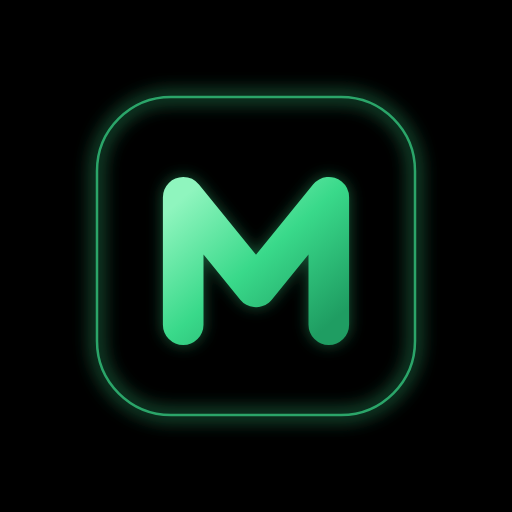
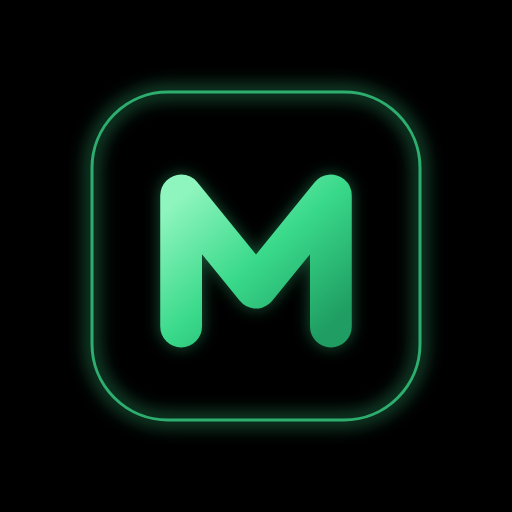
v2.9: ไอคอนแอพ: ขยับกรอบแสงให้ชิดขอบจริง ไม่เหลือแถบดำนอกกรอบ
- เดิมกรอบห่างขอบที่มือถือแสดงประมาณ 3 พิกเซล เห็นเป็นแถบดำบางๆ ทำให้ดูเล็กกว่าแอพอื่น ตอนนี้กรอบชิดขอบพอดี
- สัดส่วนตัว M กับกรอบเทียบกับโลโก้ในแอพคงเดิม (โลโก้ในแอพไม่แตะ)

Claude-Session: https://claude.ai/code/session_01C2wS7NNPrkVhQf5fYeCgCQ

diff --git a/sub/app.js b/sub/app.js
@@ -1,17 +1,17 @@
-import { alignLinesToWords, refineSegmentBoundariesWithEnergy } from './aligner.js?v=2.8';
-import { buildSrt } from './srt.js?v=2.8';
-import { callGroqWhisper, buildTranscriptForGemini, callGeminiSplit, removeThaiSpaces, GEMINI_MODELS, DEFAULT_GEMINI_MODEL } from './ai.js?v=2.8';
-import { loadMediabunny, decodeAudioFile, isVideoFile, extractAudioFromVideo, audioBufferToWavBlob } from './media.js?v=2.8';
-import { CANVAS_W, FONT_FAMILY, BOTTOM_MARGIN_RATIO, renderVideo } from './render.js?v=2.8';
-import { createTrimEditor } from './waveform.js?v=2.8';
-import { setupFineSlider, createStagedProgress, escapeHtml, getReliableDuration } from './ui.js?v=2.8';
-import { setupVoicePicker } from './voicepick.js?v=2.8';
+import { alignLinesToWords, refineSegmentBoundariesWithEnergy } from './aligner.js?v=2.9';
+import { buildSrt } from './srt.js?v=2.9';
+import { callGroqWhisper, buildTranscriptForGemini, callGeminiSplit, removeThaiSpaces, GEMINI_MODELS, DEFAULT_GEMINI_MODEL } from './ai.js?v=2.9';
+import { loadMediabunny, decodeAudioFile, isVideoFile, extractAudioFromVideo, audioBufferToWavBlob } from './media.js?v=2.9';
+import { CANVAS_W, FONT_FAMILY, BOTTOM_MARGIN_RATIO, renderVideo } from './render.js?v=2.9';
+import { createTrimEditor } from './waveform.js?v=2.9';
+import { setupFineSlider, createStagedProgress, escapeHtml, getReliableDuration } from './ui.js?v=2.9';
+import { setupVoicePicker } from './voicepick.js?v=2.9';
 
 // ===== ที่เก็บข้อมูลร่วมกับแอพหลัก (MWStore จาก ../store.js) — service worker ของแอพหลักคุมหน้านี้อยู่แล้ว =====
   const S = window.MWStore;
   await S.ready;
   // สคริปต์ของแอพหลักที่หน้านี้ยืมใช้ — โหลดหลังข้อมูลพร้อม ถ้าโหลดไม่ได้ก็ใช้ต่อได้ (budget = เพดานค่า AI ตอนถอยไป OpenRouter · r2 + voicestore = เสียงที่เจนไว้)
-  for (const src of ['../budget.js?v=2.8', '../r2.js?v=2.8', '../voicestore.js?v=2.8']) {
+  for (const src of ['../budget.js?v=2.9', '../r2.js?v=2.9', '../voicestore.js?v=2.9']) {
     await new Promise((ok) => { const el = document.createElement('script'); el.src = src; el.onload = el.onerror = ok; document.body.appendChild(el); });
   }
   const GROQ_KEY = 'mw_groq_key_v1', GEMINI_KEY = 'mw_gemini_key_v1', OR_KEY = 'mw_openrouter_key_v1', SUB_CFG = 'mw_sub_cfg_v1'; // key ตั้งที่แอพหลัก > ตั้งค่า

diff --git a/footage.html b/footage.html
@@ -5,12 +5,12 @@
 <meta name="viewport" content="width=device-width, initial-scale=1, viewport-fit=cover" />
 <meta name="theme-color" content="#0b0e0d" />
 <title>ฟุตเทจ · Meowrin factory</title>
-<link rel="icon" type="image/png" href="icon-192.png?v=2.8">
-<link rel="apple-touch-icon" href="icon-192.png?v=2.8">
+<link rel="icon" type="image/png" href="icon-192.png?v=2.9">
+<link rel="apple-touch-icon" href="icon-192.png?v=2.9">
 <link rel="preconnect" href="https://fonts.googleapis.com">
 <link rel="preconnect" href="https://fonts.gstatic.com" crossorigin>
 <link href="https://fonts.googleapis.com/css2?family=IBM+Plex+Sans+Thai:wght@400;500;600&family=Mitr:wght@500&display=swap" rel="stylesheet">
-<link rel="stylesheet" href="footage.css?v=2.8">
+<link rel="stylesheet" href="footage.css?v=2.9">
 </head>
 <body>
 <header>
@@ -232,6 +232,6 @@
 <input id="pickDocs" type="file" multiple hidden><!-- ไม่ใส่ accept → Android เปิดแอพไฟล์ (เข้าโฟลเดอร์ + เลือกทั้งหมดได้) แทนตัวเลือกรูป -->
 <video id="vid" muted playsinline preload="auto" style="position:fixed;left:-9999px;width:2px;height:2px"></video>
 
-<script src="store.js?v=2.8" data-boot="icons.js?v=2.8 dialog.js?v=2.8 budget.js?v=2.8 footage-core.js?v=2.8 r2.js?v=2.8 footage.js?v=2.8 footage-find.js?v=2.8 footage-dup.js?v=2.8 footage-audit.js?v=2.8 footage-cloud.js?v=2.8 mp4fix.js?v=2.8 footage-stitch.js?v=2.8 voicestore.js?v=2.8 footage-plan.js?v=2.8 gdrive.js?v=2.8"></script>
+<script src="store.js?v=2.9" data-boot="icons.js?v=2.9 dialog.js?v=2.9 budget.js?v=2.9 footage-core.js?v=2.9 r2.js?v=2.9 footage.js?v=2.9 footage-find.js?v=2.9 footage-dup.js?v=2.9 footage-audit.js?v=2.9 footage-cloud.js?v=2.9 mp4fix.js?v=2.9 footage-stitch.js?v=2.9 voicestore.js?v=2.9 footage-plan.js?v=2.9 gdrive.js?v=2.9"></script>
 </body>
 </html>

diff --git a/index.html b/index.html
@@ -4,19 +4,19 @@
 <meta charset="UTF-8" />
 <meta name="viewport" content="width=device-width, initial-scale=1, viewport-fit=cover" />
 <meta name="theme-color" content="#0b0e0d" />
-<link rel="manifest" href="manifest.json?v=2.8">
+<link rel="manifest" href="manifest.json?v=2.9">
 <meta name="mobile-web-app-capable" content="yes">
 <meta name="apple-mobile-web-app-capable" content="yes">
 <meta name="apple-mobile-web-app-status-bar-style" content="black-translucent">
 <meta name="apple-mobile-web-app-title" content="Meowrin">
-<link rel="icon" type="image/png" href="icon-192.png?v=2.8">
-<link rel="apple-touch-icon" href="icon-192.png?v=2.8">
+<link rel="icon" type="image/png" href="icon-192.png?v=2.9">
+<link rel="apple-touch-icon" href="icon-192.png?v=2.9">
 <title>Meowrin factory</title>
 <link rel="preconnect" href="https://fonts.googleapis.com">
 <link rel="preconnect" href="https://fonts.gstatic.com" crossorigin>
 <link href="https://fonts.googleapis.com/css2?family=IBM+Plex+Sans+Thai:wght@400;500;600&family=Mitr:wght@500&display=swap" rel="stylesheet">
-<link rel="stylesheet" href="style.css?v=2.8">
-<link rel="stylesheet" href="sheet.css?v=2.8">
+<link rel="stylesheet" href="style.css?v=2.9">
+<link rel="stylesheet" href="sheet.css?v=2.9">
 </head>
 <body>
 <div class="wrap">
@@ -400,6 +400,6 @@
   </div>
 </div>
 
-<script src="store.js?v=2.8" data-boot="version.js?v=2.8 icons.js?v=2.8 dialog.js?v=2.8 budget.js?v=2.8 sync.js?v=2.8 app.js?v=2.8 llm.js?v=2.8 ai.js?v=2.8 r2.js?v=2.8 voicestore.js?v=2.8 tts.js?v=2.8 gdrive.js?v=2.8"></script>
+<script src="store.js?v=2.9" data-boot="version.js?v=2.9 icons.js?v=2.9 dialog.js?v=2.9 budget.js?v=2.9 sync.js?v=2.9 app.js?v=2.9 llm.js?v=2.9 ai.js?v=2.9 r2.js?v=2.9 voicestore.js?v=2.9 tts.js?v=2.9 gdrive.js?v=2.9"></script>
 </body>
 </html>

diff --git a/sub/index.html b/sub/index.html
@@ -4,22 +4,22 @@
 <meta charset="UTF-8">
 <meta name="viewport" content="width=device-width, initial-scale=1.0, maximum-scale=1.0, viewport-fit=cover">
 <title>ซับจอเขียว · Meowrin factory</title>
-<link rel="icon" type="image/png" href="../icon-192.png?v=2.8">
+<link rel="icon" type="image/png" href="../icon-192.png?v=2.9">
 
 <!-- ===== PWA: ใช้ manifest และ service worker ของแอพหลัก (หน้านี้อยู่ในขอบเขตเดียวกัน) ===== -->
-<link rel="manifest" href="../manifest.json?v=2.8">
+<link rel="manifest" href="../manifest.json?v=2.9">
 <meta name="theme-color" content="#0b0e0d">
 <meta name="mobile-web-app-capable" content="yes">
 <meta name="apple-mobile-web-app-capable" content="yes">
 <meta name="apple-mobile-web-app-status-bar-style" content="black-translucent">
 <meta name="apple-mobile-web-app-title" content="Meowrin">
-<link rel="apple-touch-icon" href="../icon-192.png?v=2.8">
+<link rel="apple-touch-icon" href="../icon-192.png?v=2.9">
 <!-- ===== จบบล็อก PWA ===== -->
 
 <link rel="preconnect" href="https://fonts.googleapis.com">
 <link rel="preconnect" href="https://fonts.gstatic.com" crossorigin>
 <link href="https://fonts.googleapis.com/css2?family=Kanit:wght@400;500;700&display=swap" rel="stylesheet">
-<link rel="stylesheet" href="style.css?v=2.8">
+<link rel="stylesheet" href="style.css?v=2.9">
 </head>
 
 <body>
@@ -284,7 +284,7 @@
   </div>
 </div>
 
-<script src="../store.js?v=2.8"></script>
-<script type="module" src="app.js?v=2.8"></script>
+<script src="../store.js?v=2.9"></script>
+<script type="module" src="app.js?v=2.9"></script>
 </body>
 </html>

diff --git a/sub/waveform.js b/sub/waveform.js
@@ -1,7 +1,7 @@
 // waveform.js — กล่องตัดท่อนเสียง: วาดคลื่นเสียง ซูม/บีบนิ้ว แบ่ง/ลบท่อน (ลบแล้วเสียงที่เหลือต่อกันแบบ CapCut) เลิกทำ/ทำซ้ำ
 // แยกออกจาก app.js (v1.16) · state ทั้งหมดของคลื่นเสียงอยู่ในนี้ที่เดียว app.js คุยผ่านค่าที่ createTrimEditor คืนให้
 // audioEl = <audio> ตัวเดียวกับที่ app.js ใช้ (เล่น/กรอ) · trimCard = <details> กล่องตัดท่อนเสียง
-import { computePeaks, buildTrimmedAudioBuffer, audioBufferToWavBlob } from './media.js?v=2.8';
+import { computePeaks, buildTrimmedAudioBuffer, audioBufferToWavBlob } from './media.js?v=2.9';
 
 export function createTrimEditor({ audioEl, trimCard }){
   const waveformScroll = document.getElementById('waveformScroll');

diff --git a/sub/voicepick.js b/sub/voicepick.js
@@ -1,7 +1,7 @@
 // voicepick.js — เลือกเสียงที่เจนไว้ในแอพหลัก (MWVoice ในเครื่อง + คลัง R2 ที่ยังไม่ได้ดึงมา) แยกออกจาก app.js (v1.16)
 // ทางเข้า 2 ทาง: ปุ่ม "เลือกจากเสียงที่เจนไว้ในแอพ" และลิงก์ ?voice=รหัส จากปุ่ม "ทำซับ" ในแท็บเสียงของแอพหลัก
 // loadAudioFile = ตัวเดียวกับตอนแนบไฟล์ (app.js) · rawScriptInput = ช่องสคริปต์ดิบ · fileInfo = กล่องชื่อไฟล์
-import { escapeHtml } from './ui.js?v=2.8';
+import { escapeHtml } from './ui.js?v=2.9';
 
 export function setupVoicePicker({ loadAudioFile, rawScriptInput, fileInfo }){
   const pickVoiceBtn = document.getElementById('pickVoiceBtn');

diff --git a/sub/media.js b/sub/media.js
@@ -1,6 +1,6 @@
 // media.js — ถอดรหัส/ตัด/แปลงเสียง และโหลดไลบรารี mediabunny
 
-const MEDIABUNNY_URL = './vendor/mediabunny.min.js?v=2.8'; // mediabunny 1.54.0 เก็บไว้ในโปรเจกต์ (ไม่ต้องพึ่งอินเทอร์เน็ตตอนเรนเดอร์)
+const MEDIABUNNY_URL = './vendor/mediabunny.min.js?v=2.9'; // mediabunny 1.54.0 เก็บไว้ในโปรเจกต์ (ไม่ต้องพึ่งอินเทอร์เน็ตตอนเรนเดอร์)
 let mediabunnyModulePromise = null;
 export function loadMediabunny(){
   if (!mediabunnyModulePromise) mediabunnyModulePromise = import(MEDIABUNNY_URL);

diff --git a/version.js b/version.js
@@ -2,7 +2,7 @@
    แก้ด้วย `node bump-version.mjs X.Y` เท่านั้น (บวก ?v= ของทุกไฟล์ให้ตรงกันด้วย) · ไม่ต้องแสดงเลขรุ่นที่อื่นอีก */
 (function(){
   "use strict";
-  var VERSION = "2.8";
+  var VERSION = "2.9";
   var el = document.getElementById("appVersion");
   if(el) el.textContent = "Meowrin factory v" + VERSION;
 })();

diff --git a/CLAUDE.md b/CLAUDE.md
@@ -25,7 +25,7 @@
 - `llm.js` ชั้นเรียก AI (`MW.llm.call`): Gemini API ตรง (ฟรี, `generateContent`) ใช้เฉพาะคำขอที่ผู้เรียกใส่ `opt.free` (งานเล็ก ข้อความล้วน เช่น แก้บท) + โมเดล Google + มี key + เปิดติ๊ก "ใช้ Gemini ฟรี (งานเล็ก)" (`cfg.gem`) · ดูวิดีโอ/เขียนบทหลักใช้ OpenRouter เสมอ (ทดสอบแล้ว Gemini ฟรีกับวิดีโอช้า/ล่มบ่อย) · โควตาเต็ม/key ผิด/ล่ม/ช้าเกิน 90 วิ → ถอยไป OpenRouter อัตโนมัติ · `#spendInfo` โชว์ยอดจริงจาก OpenRouter (`GET /api/v1/key`: วันนี้/สัปดาห์/เดือน UTC รวมทุกการใช้ key) ถ้าดึงไม่ได้ใช้ยอดที่แอพนับเอง (`mw_cost_v1`) — โหลดหลัง app.js ก่อน ai.js
 - `ai.js` ทำบท/ประวัติ/prompt (เรียก AI ผ่าน `callAI` → `MW.llm.call`) — โหลดหลัง llm.js
 - `tts.js` สร้างเสียงจากบทด้วย ElevenLabs (ฟัง/แชร์/ดาวน์โหลด) — โหลดหลัง ai.js อ่านบทจาก `#vText` และฟัง event `mw:script` · ชีตตั้งค่าเสียง `#vSheet`
-- `manifest.json`, `sw.js` PWA (sw เป็น passthrough ห้ามแคช API) · ชื่อแอพ "Meowrin factory" (M ตัวใหญ่ factory ตัวเล็ก) · ไอคอนแอพ = ตัว M เขียวเล็กๆ กลางกรอบมนที่มีแสงเขียวเรืองรอบขอบ บนพื้นดำสนิท `#000` เต็มภาพ (กลืนกับวอลเปเปอร์ดำของ Han ไม่ให้คล้าย Gmail) · **มือถือครอปไอคอนเหลือแค่ตรงกลางประมาณ 64% ของภาพ** (ที่ Han เห็นบนหน้าจอ) เนื้อหาสำคัญต้องอยู่ในกรอบกลางนั้น ตัว M กับกรอบแสงจึงเล็กกว่าเต็มภาพมาก · **ไอคอน = โลโก้ในแอพ (Han ชอบโลโก้แบบนี้) ขยายทั้งก้อน 1.06 เท่าให้กรอบชิดขอบหน้าต่างที่มองเห็น**: โลโก้ rim 106..406 / M สเกล .66 → icon.svg rim 97..415 / M สเกล .70 · ห้ามขยาย M เกินสัดส่วนนี้ (v2.7 ขยาย M เป็น .9 แล้ว Han สั่งย้อน) · แก้โลโก้ในแอพเมื่อ Han สั่งเท่านั้น ต้นฉบับ `icon.svg` → สร้าง `icon-192.png`/`icon-512.png` ด้วย `node tools/render-icons.mjs` (ไฟล์ PNG ต้องอยู่ใน manifest เพราะ Android รับ PNG เสถียรกว่า SVG) · **URL ไอคอน/manifest ต้องมี `?v=` เสมอ** (`icon-192.png?v=X.Y`, `manifest.json?v=X.Y` ทั้งใน html และ manifest.json — `bump-version.mjs` บวกให้เอง) ไม่งั้นเบราว์เซอร์มือถือจำไอคอนเก่า ทั้งที่ลบแล้วติดตั้งใหม่ (เจอตอน v2.4 → Han ติดตั้งใหม่แล้วยังเห็นไอคอนเก่า) · มือถือจำไอคอนตอนติดตั้ง เปลี่ยนไฟล์แล้วอาจไม่เปลี่ยนทันที ต้องให้ Han ลบไอคอนแล้วเพิ่มใหม่ · แถบหัวหน้าหลัก: โลโก้ = หน้าตาเดียวกับไอคอนแอพ (SVG ใน index.html คัดจากส่วนกลาง 328px ของ icon.svg: ถ้าแก้ icon.svg ให้แก้โลโก้ตามด้วย) + ชื่อบรรทัดเดียว ไม่มีบรรทัดคำอธิบาย · ปุ่มย้อนกลับของหน้าฟุตเทจ/ซับเป็นปุ่มสี่เหลี่ยมมุมโค้งใส่ลูกศร (`a.back` + ไอคอน `back`)
+- `manifest.json`, `sw.js` PWA (sw เป็น passthrough ห้ามแคช API) · ชื่อแอพ "Meowrin factory" (M ตัวใหญ่ factory ตัวเล็ก) · ไอคอนแอพ = ตัว M เขียวเล็กๆ กลางกรอบมนที่มีแสงเขียวเรืองรอบขอบ บนพื้นดำสนิท `#000` เต็มภาพ (กลืนกับวอลเปเปอร์ดำของ Han ไม่ให้คล้าย Gmail) · **มือถือครอปไอคอนเหลือแค่ตรงกลางประมาณ 64% ของภาพ** (ที่ Han เห็นบนหน้าจอ) เนื้อหาสำคัญต้องอยู่ในกรอบกลางนั้น ตัว M กับกรอบแสงจึงเล็กกว่าเต็มภาพมาก · **ไอคอน = โลโก้ในแอพ (Han ชอบโลโก้แบบนี้) ขยายทั้งก้อน 1.06 เท่าให้กรอบชิดขอบหน้าต่างที่มองเห็น**: โลโก้ rim 106..406 / M สเกล .66 → icon.svg rim 92..420 (ชิดขอบหน้าต่างที่มองเห็น 90..422 พอดี ห่างกว่านี้ Han จะเห็นแถบดำนอกกรอบแล้วรู้สึกว่าไอคอนเล็กกว่าแอพอื่น) / M สเกล .72 · ห้ามขยาย M เกินสัดส่วนนี้ (v2.7 ขยาย M เป็น .9 แล้ว Han สั่งย้อน) · แก้โลโก้ในแอพเมื่อ Han สั่งเท่านั้น ต้นฉบับ `icon.svg` → สร้าง `icon-192.png`/`icon-512.png` ด้วย `node tools/render-icons.mjs` (ไฟล์ PNG ต้องอยู่ใน manifest เพราะ Android รับ PNG เสถียรกว่า SVG) · **URL ไอคอน/manifest ต้องมี `?v=` เสมอ** (`icon-192.png?v=X.Y`, `manifest.json?v=X.Y` ทั้งใน html และ manifest.json — `bump-version.mjs` บวกให้เอง) ไม่งั้นเบราว์เซอร์มือถือจำไอคอนเก่า ทั้งที่ลบแล้วติดตั้งใหม่ (เจอตอน v2.4 → Han ติดตั้งใหม่แล้วยังเห็นไอคอนเก่า) · มือถือจำไอคอนตอนติดตั้ง เปลี่ยนไฟล์แล้วอาจไม่เปลี่ยนทันที ต้องให้ Han ลบไอคอนแล้วเพิ่มใหม่ · แถบหัวหน้าหลัก: โลโก้ = หน้าตาเดียวกับไอคอนแอพ (SVG ใน index.html คัดจากส่วนกลาง 328px ของ icon.svg: ถ้าแก้ icon.svg ให้แก้โลโก้ตามด้วย) + ชื่อบรรทัดเดียว ไม่มีบรรทัดคำอธิบาย · ปุ่มย้อนกลับของหน้าฟุตเทจ/ซับเป็นปุ่มสี่เหลี่ยมมุมโค้งใส่ลูกศร (`a.back` + ไอคอน `back`)
 - หน้าแยก `footage.html` (คลังฟุตเทจ + ผู้กำกับ AI, เปิดที่ /footage.html) แท็บ: **คลัง | อัปโหลด | ผู้กำกับ | ตั้งค่า** (รื้อเมื่อ 2026-10-16: ตัดโหมดเลือกฉาก/ถาด/ปุ่มแชร์/ตัวเลือก AI ในค้นหา/เปลี่ยนชื่ออัลบั้ม/ปุ่มคลิปซ้ำ/debug ออกแล้ว อย่าเพิ่มกลับโดยไม่ถาม Han)
   - `footage-core.js` (`window.FT`): ตั้งค่า, IndexedDB, อ่านเฟรมจาก `<video>` ทุก 1 วิ หาจุดตัดฉาก, `describe` ส่งรูปหลายฉากต่อคำขอไป OpenRouter ตอบ JSON · **ดัชนีรุ่น 2 (`AI_V`, ละเอียด)**: ต่อฉากส่งรูปเดียวที่เรียงเฟรมต้น/กลาง/ท้าย 1-3 เฟรม (`strip`, กว้าง 320/เฟรม ไม่เก็บลงฐานข้อมูล) + ป้ายเพิ่ม `shot` (close/medium/wide) `intensity` 1-5 `motion` `mood` `arc` `event` `issues` (watermark/subtitles/blurry/text/black) · `deepFrames(v, src, rec)` จับเฟรมใหม่ตามช่วงฉากเดิม src = File หรือลิงก์คลัง (สตรีมเฉพาะช่วง, `crossOrigin` anonymous) · ผู้กำกับ: `beats(script, mode)` แบ่งบทเป็นช็อต (long = ช็อตละประโยค, fast = วลีละ 1-3 วิ เอ่ยชื่อใครภาพต้องเป็นคนนั้น = สไตล์ช่อง) · `direct(script, items, prev)` ส่งรูปผู้สมัครของหลายช็อตให้ AI ดูภาพจริงแล้วเลือก best+alts
   - `footage.js` แท็บ อัปโหลด: ปุ่มแอพไฟล์ (`filesDocs` ไม่มี accept เลือกทั้งโฟลเดอร์ได้, อัลบั้ม Xiaomi = Pictures/Gallery/owner/<อัลบั้ม>, ตัดไฟล์ที่ไม่ใช่วิดีโอ) → คิวทำดัชนี/พัก/ทำต่อ/งบ/Wake Lock + อัปขึ้นคลังอัตโนมัติเมื่อตั้งค่าคลังไว้ (คลิปที่ทำแล้ว = อัปอย่างเดียว, รูปรุ่นเก่า = วาดใหม่ฟรี) · คลิปใหม่ได้ดัชนีรุ่น 2 เลย · แผง "ตรวจตัวละครซ้ำ" (`rcBtn`, `FT.recognize` + `ROSTER` 38 ตัวละครพร้อมลักษณะเด่น key ต้องตรง `NAMES`): ส่งรูป `sc.img` 480px ที่เก็บไว้ 12 ฉาก/คำขอ ถามเจาะจงว่ามีใครในรายชื่อ → `U.addChars` เติมเฉพาะที่ขาด (ไม่ลบ, ข้าม `ai.fixed`, ตั้ง `ai.rc=1`) บันทึกทุกรอบ หยุด/ทำต่อได้ ≈ $0.0012/ฉาก ไม่ต้องเปิดไฟล์วิดีโอ · แผง "ดัชนีละเอียด" ปุ่มอัปเกรดคลิปเก่า (`aiV`<2) เข้าคิวโหมด `deep` (`deepClip`: เฟรมจากไฟล์ในเครื่องหรือคลัง → `describeAll` ส่วน AI ที่ใช้ร่วมกับทำดัชนีใหม่ → ทับ `sc.ai` + `aiV`, ค่า AI ประมาณ 1.6× ของรุ่นเดิม) · ต้นทุน/เวลา · ตั้งค่า/สำรอง · รวมคลิปซ้ำเองตอนเปิดหน้า (ขนาด+ความยาวเท่ากัน ไม่ดูชื่อ เก็บตัวที่มี `r2`) · ส่ง `FT.ui` พื้นฐาน
